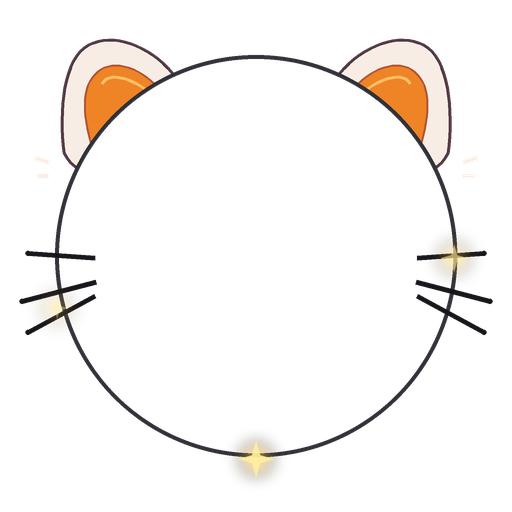
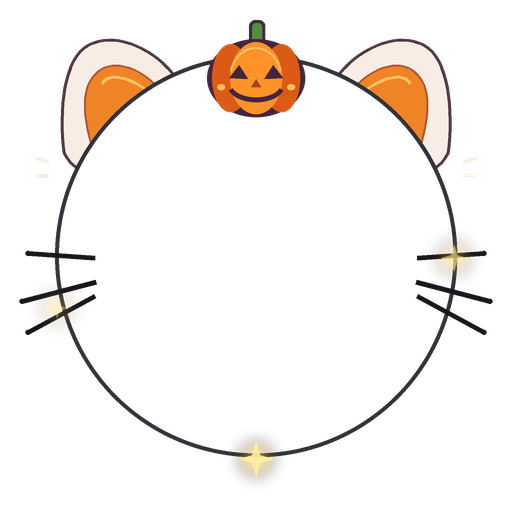
feat : 고양이 귀 장식 상단에 호박 추가

Changed region(s): [[0.4062, 0.0312, 0.5938, 0.25]]

diff --git a/scripts/generate-halloween-cat-frame.py b/scripts/generate-halloween-cat-frame.py
@@ -173,13 +173,49 @@ def draw_blush(layer: Image.Image, progress: float) -> None:
     layer.alpha_composite(details)
 
 
+def draw_pumpkin(layer: Image.Image, progress: float) -> None:
+    """Place one small jack-o'-lantern between the ears, above the photo."""
+    bob = -4 * (1 - math.cos(2 * math.pi * progress)) / 2
+
+    def box(left: float, top: float, right: float, bottom: float) -> tuple[int, ...]:
+        return tuple(
+            round(value * DRAW_SCALE)
+            for value in (left, top + bob, right, bottom + bob)
+        )
+
+    def points(vertices: list[Point]) -> list[tuple[int, int]]:
+        return scale_points([(x, y + bob) for x, y in vertices])
+
+    draw = ImageDraw.Draw(layer)
+    draw.rounded_rectangle(
+        box(249, 24, 265, 55), radius=6 * DRAW_SCALE, fill="#3F263B"
+    )
+    draw.rounded_rectangle(
+        box(252, 27, 262, 51), radius=4 * DRAW_SCALE, fill="#548D3E"
+    )
+    draw.ellipse(box(207, 43, 305, 121), fill="#45253C")
+    draw.ellipse(box(212, 48, 249, 116), fill="#DB5A16")
+    draw.ellipse(box(263, 48, 300, 116), fill="#DB5A16")
+    draw.ellipse(box(230, 46, 282, 118), fill="#FF9229")
+    draw.arc(
+        box(229, 51, 282, 115), 195, 345, fill="#FFC367", width=2 * DRAW_SCALE
+    )
+    draw.polygon(points([(229, 82), (239, 69), (248, 83)]), fill="#45253C")
+    draw.polygon(points([(264, 83), (273, 69), (283, 82)]), fill="#45253C")
+    draw.polygon(points([(251, 91), (256, 83), (261, 91)]), fill="#A44517")
+    draw.arc(
+        box(227, 71, 285, 106), 20, 160, fill="#45253C", width=5 * DRAW_SCALE
+    )
+    draw.ellipse(box(217, 88, 225, 94), fill="#FFBD62")
+    draw.ellipse(box(287, 88, 295, 94), fill="#FFBD62")
+
+
 def draw_sparkles(layer: Image.Image, progress: float) -> None:
     glow = Image.new("RGBA", layer.size)
     glow_draw = ImageDraw.Draw(glow)
     sharp = Image.new("RGBA", layer.size)
     sharp_draw = ImageDraw.Draw(sharp)
     anchors = (
-        (272, 53, 0.00),
         (454, 258, 0.25),
         (256, 459, 0.50),
         (57, 308, 0.75),
@@ -258,6 +294,7 @@ def render_frame(index: int) -> Image.Image:
             fill="#F8EDE4",
             width=4 * DRAW_SCALE,
         )
+    draw_pumpkin(layer, progress)
     draw_blush(layer, progress)
     draw_whiskers(layer, whisker_sway)
     draw_sparkles(layer, progress)
